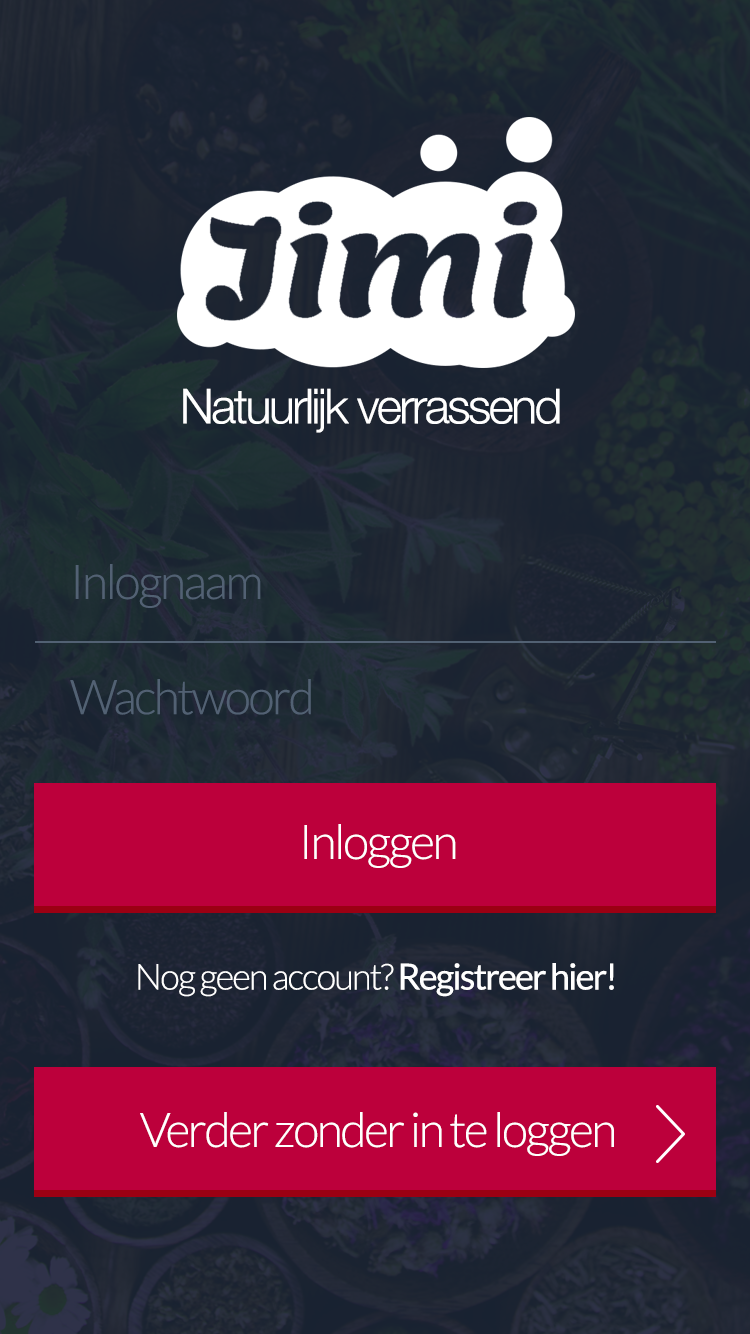
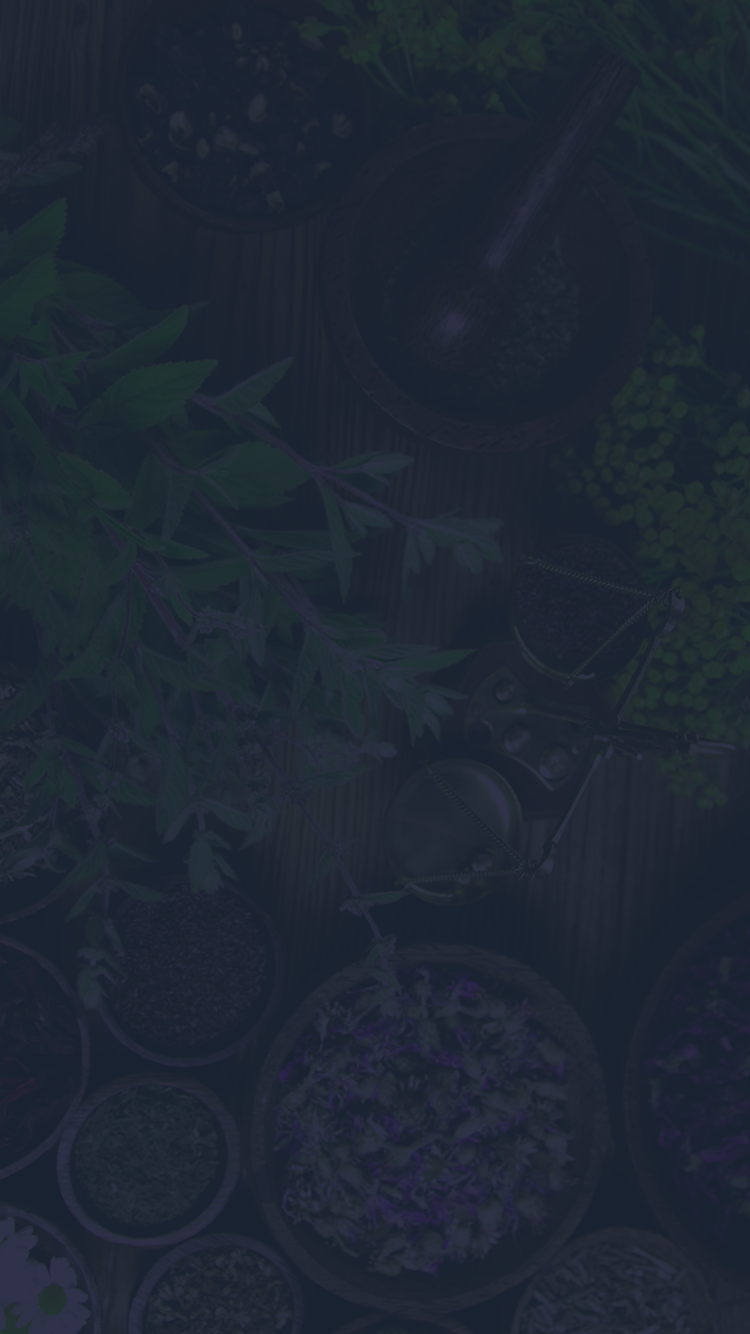
hoi

diff --git a/platforms/browser/www/css/index.css b/platforms/browser/www/css/index.css
@@ -58,6 +58,7 @@ body{
 #container {
 	opacity: 0;
 	transition: 1s opacity ease-in-out;
+	height: 100%;
 	
 }
 
@@ -78,7 +79,7 @@ body{
 	
 }
 
-#categories > li{
+#categories > li {
 	line-height: 58px;
 	font-weight: 300;
 	font-size: 24px;
@@ -88,6 +89,46 @@ body{
 	background-repeat: no-repeat;
 	background-position: 96% center, 4%;
 	background-size: 14px auto, 32px auto;
+	background-image: url("../img/nextred.png"), url("../img/iconen/empty.png");
+	
+}
+
+#categories > li.droom {
 	background-image: url("../img/nextred.png"), url("../img/iconen/droomopwekkend.png");
+	
+}
+
+#categories > li.geest {
+	background-image: url("../img/nextred.png"), url("../img/iconen/geestverruimend.png");
+	
+}
+
+#categories > li.hallu {
+	background-image: url("../img/nextred.png"), url("../img/iconen/hallucinerend.png");
+	
+}
+
+#categories > li.concen {
+	background-image: url("../img/nextred.png"), url("../img/iconen/concentratie.png");
+	
+}
+
+#categories > li.ener {
+	background-image: url("../img/nextred.png"), url("../img/iconen/energie.png");
+	
+}
+
+#categories > li.lust {
+	background-image: url("../img/nextred.png"), url("../img/iconen/lustopwekkend.png");
+	
+}
+
+#categories > li.pijn {
+	background-image: url("../img/nextred.png"), url("../img/iconen/pijnverlichtend.png");
+	
+}
+
+#categories > li.ontspan {
+	background-image: url("../img/nextred.png"), url("../img/iconen/ontspanning.png");
 	
 }

diff --git a/platforms/browser/www/css/login.css b/platforms/browser/www/css/login.css
@@ -1,2 +1,8 @@
 @charset "UTF-8";
 /* created by Benimation */
+
+#logincontainer{
+	width: 100%;
+	height: 500px;
+	background-image:url("../img/loginbackground.jpg");	
+}

diff --git a/www/css/login.css b/www/css/login.css
@@ -1,2 +1,8 @@
 @charset "UTF-8";
 /* created by Benimation */
+
+#logincontainer{
+	width: 100%;
+	height: 500px;
+	background-image:url("../img/loginbackground.jpg");	
+}

diff --git a/platforms/browser/www/pages/screen1.html b/platforms/browser/www/pages/screen1.html
@@ -1,4 +1,7 @@
-<img class="testimg" src="img/screen1.png" />
+<div id="logincontainer">
+
+
+</div>
 
 
 <script>

diff --git a/www/pages/screen1.html b/www/pages/screen1.html
@@ -1,4 +1,7 @@
-<img class="testimg" src="img/screen1.png" />
+<div id="logincontainer">
+
+
+</div>
 
 
 <script>
